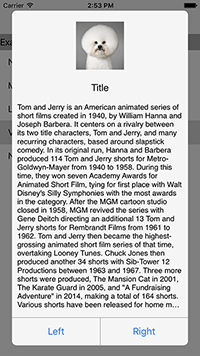
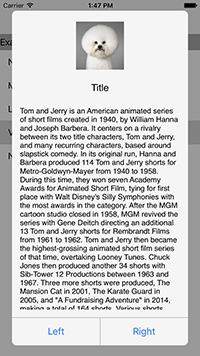
Use UITextView to show very long message.

diff --git a/Classes/MCIconAlertController.m b/Classes/MCIconAlertController.m
@@ -49,7 +49,7 @@ static const CGFloat MaxContentAlpha = 1.f;
 @property (nonatomic, strong) UIView      *contentView;
 @property (nonatomic, strong) UIImageView *icon;
 @property (nonatomic, strong) UILabel     *titleLabel;
-@property (nonatomic, strong) UILabel     *messageLabel;
+@property (nonatomic, strong) UITextView  *messageTextView;
 @property (nonatomic, strong) UIButton    *leftButton;
 @property (nonatomic, strong) UIButton    *rightButton;
 
@@ -79,7 +79,7 @@ static const CGFloat MaxContentAlpha = 1.f;
     [self contentView].hidden = YES;
     [self icon];
     [self titleLabel];
-    [self messageLabel];
+    [self messageTextView];
     [self leftButton];
     [self rightButton];
     
@@ -160,10 +160,6 @@ static const CGFloat MaxContentAlpha = 1.f;
     UILabel *titleLabel = [[UILabel alloc] init];
     _titleLabel = titleLabel;
     [self.contentView addSubview:titleLabel];
-    [titleLabel mas_makeConstraints:^(MASConstraintMaker *make){
-        make.top.equalTo(self.icon.mas_bottom).offset(40 / 2.f * Scale2X);
-        make.centerX.equalTo(self.icon);
-    }];
     titleLabel.backgroundColor = [UIColor clearColor];
     titleLabel.textColor = [UIColor blackColor];
     titleLabel.font = font(18);
@@ -172,27 +168,20 @@ static const CGFloat MaxContentAlpha = 1.f;
     return _titleLabel;
 }
 
-- (UILabel *)messageLabel {
-    if (_messageLabel) {
-        return _messageLabel;
+- (UITextView *)messageTextView {
+    if (_messageTextView) {
+        return _messageTextView;
     }
     
-    UILabel *messageLabel = [[UILabel alloc] init];
-    _messageLabel = messageLabel;
-    [self.contentView addSubview:messageLabel];
-    [messageLabel mas_makeConstraints:^(MASConstraintMaker *make){
-        make.top.equalTo(self.titleLabel.mas_bottom).offset(28 / 2.f * Scale2X);
-        make.centerX.equalTo(self.titleLabel);
-        make.left.mas_greaterThanOrEqualTo(messageLabel.superview).offset(10);
-        make.right.mas_lessThanOrEqualTo(messageLabel.superview).offset(-10);
-    }];
-    messageLabel.backgroundColor = [UIColor clearColor];
-    messageLabel.textColor = [UIColor blackColor];
-    messageLabel.font = font(14);
-    messageLabel.text = self.message;
-    messageLabel.numberOfLines = 0;
+    UITextView *messageTextView = [[UITextView alloc] init];
+    _messageTextView = messageTextView;
+    [self.contentView addSubview:messageTextView];
+    messageTextView.backgroundColor = [UIColor clearColor];
+    messageTextView.textColor = [UIColor blackColor];
+    messageTextView.font = font(14);
+    messageTextView.text = self.message;
     
-    return _messageLabel;
+    return _messageTextView;
 }
 
 - (UIButton *)leftButton {
@@ -204,7 +193,7 @@ static const CGFloat MaxContentAlpha = 1.f;
     _leftButton = leftButton;
     [self.contentView addSubview:leftButton];
     [leftButton mas_makeConstraints:^(MASConstraintMaker *make){
-        make.top.equalTo(self.messageLabel.mas_bottom).offset(24 / 2.f * Scale2X);
+        make.top.equalTo(self.messageTextView.mas_bottom).offset(24 / 2.f * Scale2X);
         make.left.equalTo(self.contentView);
         make.bottom.equalTo(self.contentView);
         make.width.mas_equalTo(564 / 2.f * Scale2X / 2.f);
@@ -227,7 +216,7 @@ static const CGFloat MaxContentAlpha = 1.f;
     _rightButton = rightButton;
     [self.contentView addSubview:rightButton];
     [rightButton mas_makeConstraints:^(MASConstraintMaker *make){
-        make.top.equalTo(self.messageLabel.mas_bottom).offset(24 / 2.f * Scale2X);
+        make.top.equalTo(self.messageTextView.mas_bottom).offset(24 / 2.f * Scale2X);
         make.right.equalTo(self.contentView);
         make.bottom.equalTo(self.contentView);
         make.width.mas_equalTo(564 / 2.f * Scale2X / 2.f);
@@ -261,6 +250,23 @@ static const CGFloat MaxContentAlpha = 1.f;
     lineView.backgroundColor = UIColorFromRGB(0xa9a9a9);
     
     return _rightButton;
+}
+
+- (void)viewDidLayoutSubviews {
+    [self.titleLabel sizeToFit];
+    [self.titleLabel mas_remakeConstraints:^(MASConstraintMaker *make){
+        make.top.equalTo(self.icon.mas_bottom).offset(40 / 2.f * Scale2X);
+        make.centerX.equalTo(self.icon);
+        make.height.mas_equalTo(self.titleLabel.frame.size.height);
+    }];
+    
+    [self.messageTextView mas_remakeConstraints:^(MASConstraintMaker *make){
+        make.top.equalTo(self.titleLabel.mas_bottom).offset(28 / 2.f * Scale2X);
+        make.centerX.equalTo(self.titleLabel);
+        make.left.equalTo(self.messageTextView.superview).offset(10);
+        make.right.equalTo(self.messageTextView.superview).offset(-10);
+        make.height.mas_equalTo(self.messageTextView.contentSize.height);
+    }];
 }
 
 #pragma mark - Actions.
